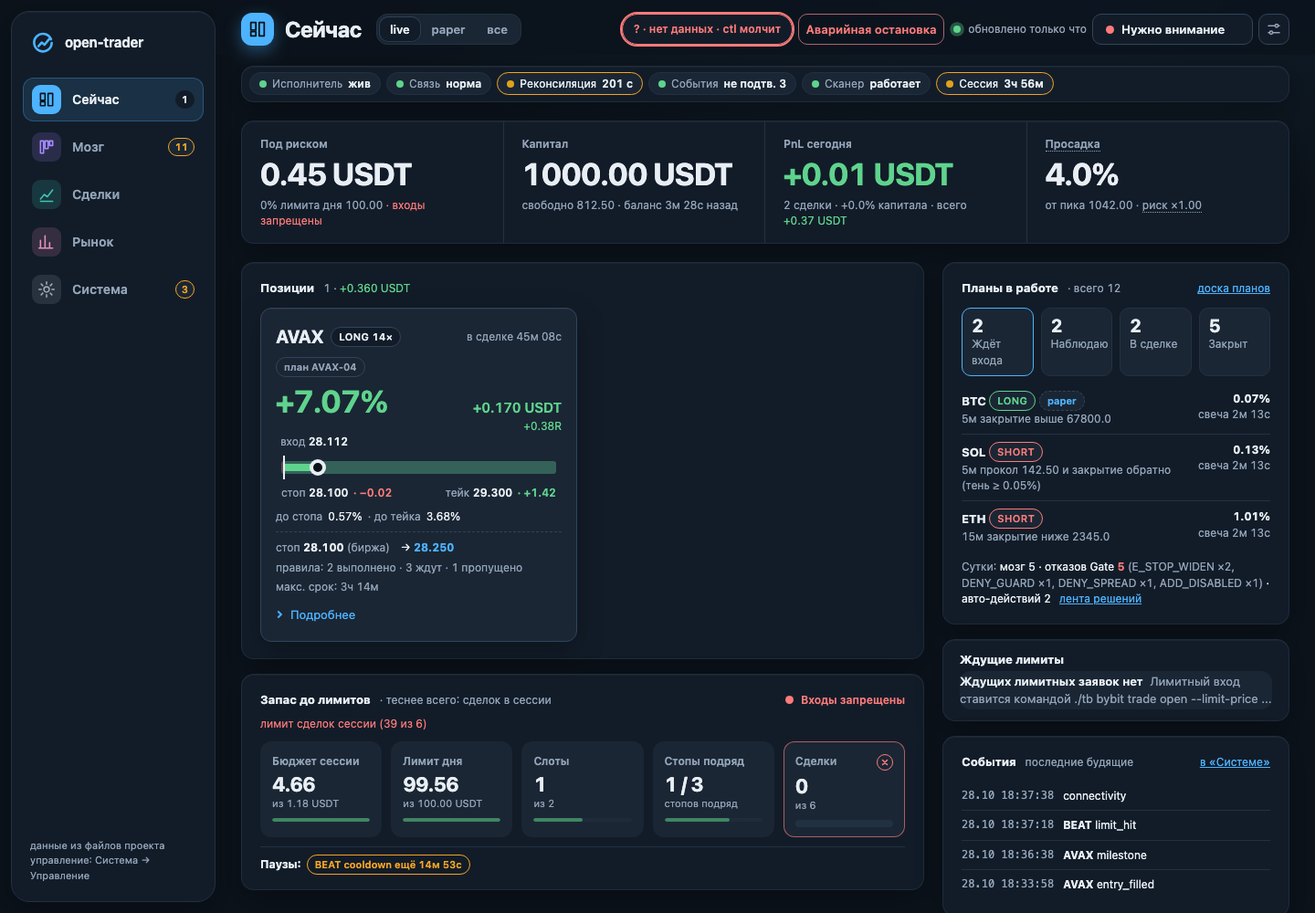
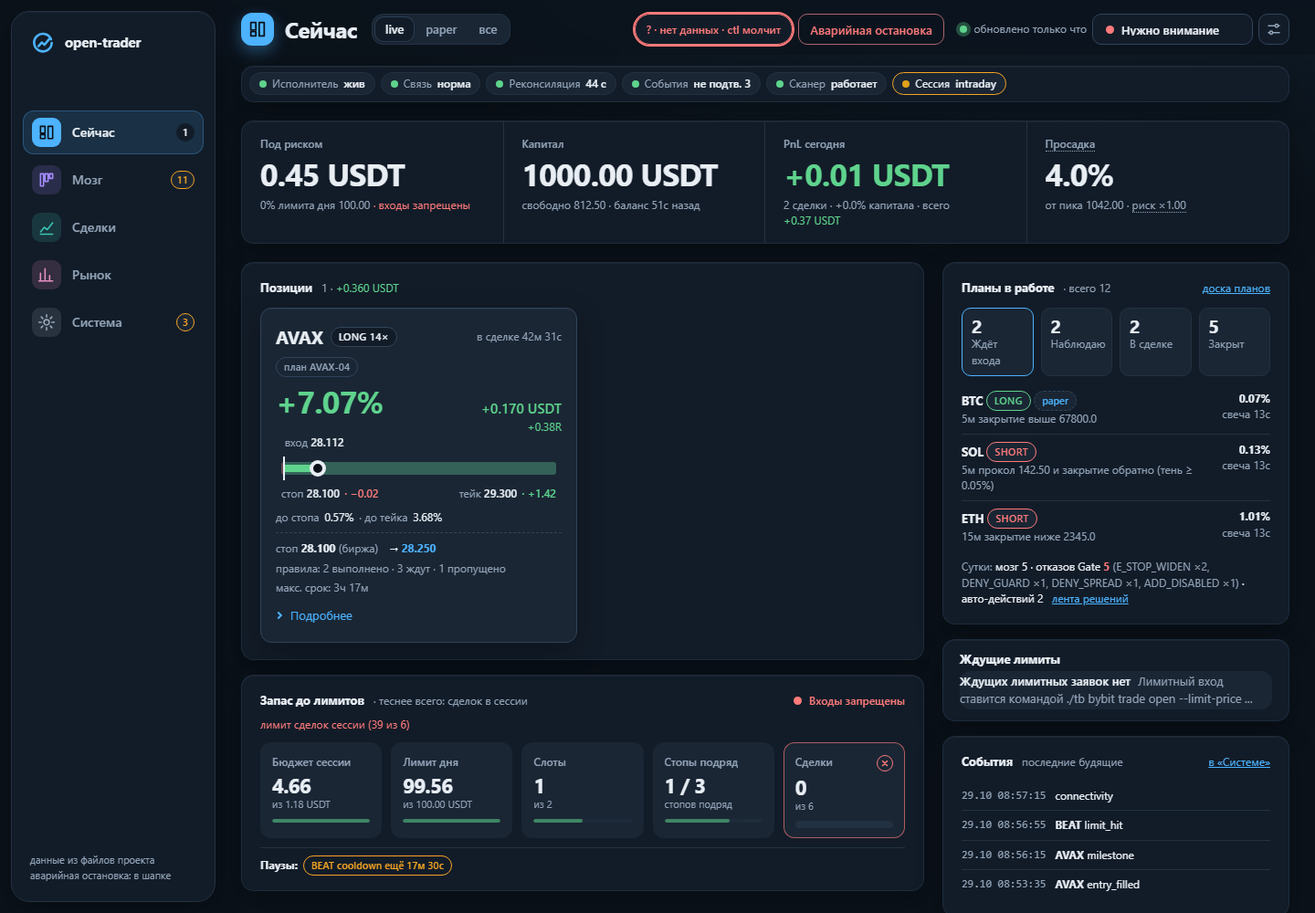
Refresh README and screenshots
- Re-shoot all dashboard screenshots from the synthetic fixture (neutral
  numbers); merge the two settings shots into one, since Settings is now
  a single page.
- README (en/ru): 22 gateway tools (was 19), entry_scout in the brain,
  day start without minutes/session type, risk levels 4-5 and cost
  awareness, honest paper/live and Windows status, package list.
- docs: fix tool count in ARCHITECTURE/INDEX, image links in PROVIDERS.

diff --git a/README.ru.md b/README.ru.md
@@ -7,7 +7,7 @@
 > - **Прибыльность НЕ доказана.** Исследования в репозитории (`docs/RESEARCH.md`) проверили правиловые стратегии и не нашли преимущества (edge), переживающего издержки и проверки на устойчивость.
 > - **Реальные деньги под риском.** Бессрочные фьючерсы с плечом могут быстро обнулить депозит. Начинайте с профиля `paper` и не торгуйте деньгами, потерю которых не можете себе позволить.
 > - **ПО предоставляется «как есть», без гарантий** (см. `LICENSE`). Вы сами отвечаете за ключи, настройки и сделки.
-> - Windows написан, но **не проверен** на реальной машине. Часть источников данных (новости, макро) тоже **не проверена**.
+> - Windows проверялся на реальной машине ограниченно (владелец запускает его на Windows 11), macOS проверен лучше. Часть источников данных (новости, макро) **не проверена**.
 
 ## Что это
 
@@ -18,9 +18,11 @@
 
 Профиль по умолчанию `paper`: бумажная торговля по реальным публичным ценам Bybit. Live включает только владелец, через явные гейты.
 
+Уровни риска 1-5 задают размер и лимиты в коде. На уровнях 4-5 мозгу велено брать валидные сетапы, а не пропускать их «из осторожности» (жёсткие правила и лимиты остаются). Мозг также видит стоимость своей работы (токены за сутки против результата дня) и журнал бумажных экспериментов, поэтому может повторять гипотезы, выдержавшие проверку на бумаге.
+
 ## Принципы безопасности
 
-- Мозг **не видит ключей и файлов**: ему доступен только каталог из 19 инструментов (`docs/GATEWAY.md`) с правами и лимитами на агента; нет shell, сети, файловой системы и прямых ордеров.
+- Мозг **не видит ключей и файлов**: ему доступен только каталог из 22 инструментов (`docs/GATEWAY.md`) с правами и лимитами на агента; нет shell, сети, файловой системы и прямых ордеров.
 - **Guard и уровни риска вне LLM.** Размер, плечо и маржу считает код от капитала и уровня риска (1-5); агент их не задаёт.
 - **Стоп только ужесточается**, расширить нельзя. Без усреднения убытка и мартингейла.
 - **KILL**: `state/KILL` останавливает торговлю; снять может только человек (`./tb exec resume`).
@@ -37,13 +39,14 @@
  Bybit публичный WS --> feed/scan --> шина событий -----+--> досье (briefing)
                                                         |
                          +------------------------------v--------------+
-                         |  МОЗГ (роли LLM: morning_analyst,           |
-                         |  position_manager, reviewer, day_auditor)   |
+                         |  МОЗГ (роли LLM: entry_scout,               |
+                         |  morning_analyst, position_manager,         |
+                         |  reviewer, day_auditor)                     |
                          |  агент-чат (Claude через MCP) / API-демон   |
                          +------------------------------+--------------+
                                  только вызовы инструментов (ни ключей, ни файлов)
                          +------------------------------v--------------+
-                         |  ШЛЮЗ: 19 инструментов, права, лимиты, аудит |
+                         |  ШЛЮЗ: 22 инструмента, права, лимиты, аудит |
                          +------------------------------+--------------+
                                       планы (inbox/outbox)
                          +------------------------------v--------------+
@@ -59,17 +62,17 @@
 
 ## Статус и честные ограничения
 
-- Экспериментально. Работало только на бумаге; живой LLM-мозг в деле не проверен (промпты и форматы проверены на фейковом LLM, живую оценку делает владелец).
+- Экспериментально. Автономные входы LLM работали только на бумаге (поиск входов только для paper по замыслу); владелец сделал несколько небольших live-сделок вручную. Живой LLM-мозг в деле не проверен (промпты и форматы проверены на фейковом LLM, живую оценку делает владелец).
 - **Доказанного edge нет.** Наши исследования (`docs/RESEARCH.md`): минутные тренд-правила, часовой пробой, пары, дневной моментум, funding-контрариан, девять свечных гипотез, объём после импульса. Ни одно не прошло. Ценность системы в дисциплине риска и измерении гипотез, а не в обещании дохода.
 - Источники новостей не подтверждены до `./tb intel verify`; читатель новостей на живом тексте не проверялся.
 - Медленные данные (деривативы, макро) необязательны и по умолчанию не запускаются.
-- Windows (`tb.cmd`, `tb.ps1`, `docs/WINDOWS.md`) не проверен; проверенная платформа: macOS.
+- Windows (`tb.cmd`, `tb.ps1`, `docs/WINDOWS.md`) используется владельцем на Windows 11, но проверен меньше macOS; слабое место: остановка и перезапуск процессов. Лучше всего проверена платформа macOS.
 - Документация в основном на русском; README, SECURITY, CONTRIBUTING есть на английском.
 
 ## Требования
 
-- **Python 3.9 или новее** (`python3 --version`). Внешних зависимостей нет: только стандартная библиотека, `pip install` не нужен.
-- macOS или Linux (проверено на macOS). Windows: есть `tb.cmd` / `tb.ps1`, но они **не проверены** (`docs/WINDOWS.md`).
+- **Python 3.9 или новее** (`python3 --version`; разработка на 3.14, 3.9 заново не проверялся). Внешних зависимостей нет: только стандартная библиотека, `pip install` не нужен.
+- macOS или Linux (проверено на macOS). Windows: `tb.cmd` / `tb.ps1` работают у владельца на Windows 11, но проверены меньше (`docs/WINDOWS.md`).
 - Доступ в интернет: профиль paper торгует на бумаге по **реальным публичным ценам Bybit** (публичные WebSocket и REST). Аккаунт и ключ Bybit для paper не нужны.
 - Ключ LLM-провайдера **необязателен**: платформа, дашборд и paper работают без живого мозга. Для мозга нужен провайдер (ниже).
 
@@ -87,7 +90,7 @@ git clone <этот репозиторий> && cd <папка репозитор
 `./tb start` сам создаёт ключ подписи и токен дашборда при первом запуске (токен печатается один раз, сохраните) и печатает ссылку на дашборд и следующие шаги. Дальше:
 
 1. Откройте **http://127.0.0.1:8765/** (только локально; для paper вход без токена, токен спросят один раз для опасных действий и смены настроек).
-2. **Система -> Управление -> Старт**: режим `paper`, тип сессии (`intraday`), минуты, «Запустить». Старт идёт шагами S1-S9 (вкладка **День**).
+2. Нажмите **«Начать торговлю»** в шапке (или **Система -> Управление -> Запустить день**), выберите режим (`paper`) и подтвердите. У торгового дня нет срока: он идёт, пока вы его не остановите. Старт идёт шагами S1-S9 (вкладка **День**).
 3. Мозг **выключен**, пока вы не подключите LLM-провайдера (следующий раздел). До этого `./tb start` печатает одну строку `мозг выключен: <причина> (как включить: ...)`, всё остальное работает: дашборд, сканер, планы, бумажный исполнитель, журнал.
 
 Остановка: `./tb stop` (перезапуск: `./tb restart`). Аварийно: `./tb exec halt --flatten`. Если вы нажали Ctrl+Z в терминале, где запущен супервизор, `./tb start|stop|restart` сами его разморозят. Другой порт: `{"svc": {"dash": {"port": 8780}}}` в `config/local/platform.json`. Полное руководство: `docs/QUICKSTART.md`; эксплуатация: `docs/RUNBOOK.md`. Самопроверка во временном корне на фейковом LLM (берёт публичные данные Bybit, ваши файлы не трогает): `./tb smoke`.
@@ -103,7 +106,7 @@ git clone <этот репозиторий> && cd <папка репозитор
 ./tb llm check --provider deepseek               # проверка конфига без сети; с --live один крошечный платный запрос
 ./tb restart                                     # или ./tb start; ./tb brain status покажет назначения
 ```
-Другой вендор (например Gemini): `./tb llm provider add gemini --preset gemini`, `./tb llm key set gemini`, `./tb llm provider enable gemini`, `./tb brain profile set gem-flash --provider gemini --model flash`, `./tb brain use all gem-flash`. Любой OpenAI-совместимый адрес и локальные модели (Ollama, LM Studio): `docs/PROVIDERS.ru.md`. **Все шаблоны не проверены живым ключом; нативные адаптеры только у Anthropic и DeepSeek.** Держитесь paper и малых бюджетов (`config/brain.json` -> `budget`). Те же экраны есть в дашборде (**Система -> Настройки -> Провайдеры / Роли**).
+Другой вендор (например Gemini): `./tb llm provider add gemini --preset gemini`, `./tb llm key set gemini`, `./tb llm provider enable gemini`, `./tb brain profile set gem-flash --provider gemini --model flash`, `./tb brain use all gem-flash`. Любой OpenAI-совместимый адрес и локальные модели (Ollama, LM Studio): `docs/PROVIDERS.ru.md`. **Все шаблоны не проверены живым ключом; нативные адаптеры только у Anthropic и DeepSeek.** Держитесь paper и малых бюджетов (`config/brain.json` -> `budget`). Те же экраны есть в дашборде (**Система -> Настройки**).
 
 ## Что вы увидите
 
@@ -115,8 +118,7 @@ git clone <этот репозиторий> && cd <папка репозитор
 | ![Решения мозга](docs/images/brain-decisions.png) | **Мозг -> Решения**: карточка состояния мозга и лента всех решений (кто, что, почему, результат) |
 | ![Планы](docs/images/plans.png) | **Мозг -> Планы**: доска планов (ждёт входа / наблюдаю / в сделке / закрыт), условия входа, ближайший триггер |
 | ![Сделки](docs/images/trades.png) | **Сделки**: статистика, накопленный PnL, причины выхода, история |
-| ![Провайдеры](docs/images/settings-providers.png) | **Система -> Настройки -> Провайдеры**: добавить из шаблона, ввести ключ (write-only), включить, проверить |
-| ![Роли](docs/images/settings-roles.png) | **Система -> Настройки -> Роли**: какой профиль обслуживает роль, запасные, бюджеты |
+| ![Настройки](docs/images/settings.png) | **Система -> Настройки**: какая модель обслуживает роль (с запасными), подключения ИИ: добавить провайдера из шаблона, ввести ключ (write-only), включить, проверить |
 
 ## Если что-то не так
 
@@ -128,13 +130,13 @@ git clone <этот репозиторий> && cd <папка репозитор
 | `мозг выключен: ...` / мозг ничего не делает | нет подписчика `api`, ключа провайдера, провайдер выключен или нет профиля: строка говорит, что именно; `docs/PROVIDERS.ru.md`, шаг 6 |
 | `E_ELEVATE` или запрос токена в дашборде | действие «опасное» (live, смена настроек, ключи): введите токен дашборда один раз; потерян: `./tb control token new` |
 | Команды падают с сетевыми/DNS-ошибками, WebSocket не подключается | песочница, VPN или фаервол режут исходящие соединения; запускайте в обычном терминале. Прокси у сервисов биржи отключены намеренно (`docs/WINDOWS.md`, `docs/RUNBOOK.md`) |
-| Windows | на настоящей машине не проверялся; `docs/WINDOWS.md`, сообщите, что сломалось |
+| Windows | проверен меньше macOS; `docs/WINDOWS.md`, сообщите, что сломалось (`./tb stop` там ждёт до 90 с) |
 | Что-то ещё | `./tb status`, `./tb logs [exec|scan|feed|dispatch|ctl|dash|brain]`, `./tb day status`, `./tb setup --check`; `./tb smoke` проверяет всю цепочку во временном корне |
 
 ## Структура репозитория
 
 ```
-src/tb/        пакет (только stdlib): core, executor, gateway, mcp, brain, llm, control, lifecycle, intel, memory, marketdata, venues, platform, dash, research, audit
+src/tb/        пакет (только stdlib): core, executor, gateway, mcp, brain, llm, control, lifecycle, intel, memory, logic, marketdata, venues, platform, dash, research, audit, legacy_engine
 config/        настройки (без секретов); примеры с нейтральными значениями: examples/config/
 docs/          документация (оглавление: docs/INDEX.md), заметки проектирования: docs/spec_v2/
 tests/         юнит- и сценарные тесты (фикстуры синтетические)

diff --git a/README.md b/README.md
@@ -7,7 +7,7 @@
 > - **Profitability is NOT proven.** The research in this repository (`docs/RESEARCH.md`) tested rule-based strategies and found no edge that survives costs and robustness checks.
 > - **Real money is at risk.** Perpetual futures with leverage can lose your whole deposit quickly. Use the `paper` profile first and never trade money you cannot afford to lose.
 > - **Provided "as is", without warranty** (see `LICENSE`). You are solely responsible for your keys, your configuration and your trades.
-> - Windows support is written but **not verified** on a real Windows machine. Some data sources (news, macro) are **not verified** either.
+> - Windows support has had limited real-machine testing (the maintainer runs it on Windows 11); macOS is better covered. Some data sources (news, macro) are **not verified**.
 
 ## What it is
 
@@ -18,9 +18,11 @@ An autonomous trading platform for USDT-margined perpetual futures on Bybit, wit
 
 The default profile is `paper`: it trades on paper against real public Bybit prices. Live trading is an explicit, gated owner decision.
 
+Risk levels 1-5 set size and limits in code. At levels 4-5 the brain is told to take valid setups instead of skipping out of caution (all hard rules and limits stay). The brain also sees what its own work costs (tokens per day against the day's result) and a ledger of paper experiments, so it can repeat hypotheses that held up on paper.
+
 ## Safety principles
 
-- The brain **never sees keys or files**. It gets a fixed catalog of 19 tools (`docs/GATEWAY.md`) with per-agent rights and limits; there are no shell, network, filesystem or direct-order tools.
+- The brain **never sees keys or files**. It gets a fixed catalog of 22 tools (`docs/GATEWAY.md`) with per-agent rights and limits; there are no shell, network, filesystem or direct-order tools.
 - **Guard and risk levels live outside the LLM.** Size, leverage and margin are computed by code from capital and a risk level (1-5); an agent never sets them.
 - **A stop can only be tightened**, never widened. No averaging down, no martingale.
 - **KILL switch**: `state/KILL` halts trading; only a human can clear it (`./tb exec resume`).
@@ -37,13 +39,14 @@ The default profile is `paper`: it trades on paper against real public Bybit pri
  Bybit public WS --> feed/scan --> events bus -----+--> briefing (dossier)
                                                    |
                          +-------------------------v-------------------+
-                         |  BRAIN (LLM roles: morning_analyst,         |
-                         |  position_manager, reviewer, day_auditor)   |
+                         |  BRAIN (LLM roles: entry_scout,             |
+                         |  morning_analyst, position_manager,         |
+                         |  reviewer, day_auditor)                     |
                          |  chat agent (Claude via MCP) / API daemon   |
                          +-------------------------+-------------------+
                                   tool calls only  |  (no keys, no files)
                          +-------------------------v-------------------+
-                         |  GATEWAY: 19 tools, rights, limits, audit    |
+                         |  GATEWAY: 22 tools, rights, limits, audit    |
                          +-------------------------+-------------------+
                                        plans (inbox/outbox)
                          +-------------------------v-------------------+
@@ -60,17 +63,17 @@ Details: `docs/ARCHITECTURE.md`, `docs/DESIGN_V2.md`, `docs/SPEC_V2.md`.
 
 ## Status and honest limitations
 
-- Experimental. It has been run on paper only; a live LLM brain has not been validated in production (prompts and response formats were tested on a fake LLM; the live evaluation is the owner's job).
+- Experimental. Autonomous LLM entries have only run on paper (the entry scout is paper-only by design); the owner has made a few small live trades by hand. A live LLM brain has not been validated in production (prompts and response formats were tested on a fake LLM; the live evaluation is the owner's job).
 - **No proven edge.** Our own research (`docs/RESEARCH.md`) tested minute trend rules, hourly breakout, pairs, daily momentum, funding contrarian, nine candle/level hypotheses and volume-after-impulse. None passed. The value of the system is risk discipline and measurement of hypotheses, not a promise of income.
 - News sources are unverified until you run `./tb intel verify`; the news reader has not been tested on live text.
 - Slow market data (derivatives, macro) is optional and not started by default.
-- Windows (`tb.cmd`, `tb.ps1`, `docs/WINDOWS.md`) is not verified. macOS is the tested platform.
+- Windows (`tb.cmd`, `tb.ps1`, `docs/WINDOWS.md`) is used by the maintainer on Windows 11 but is less tested than macOS; process stop/restart is the weak spot. macOS is the best-tested platform.
 - Documentation is mostly in Russian; the README, SECURITY, CONTRIBUTING are in English.
 
 ## Requirements
 
-- **Python 3.9 or newer** (`python3 --version`). No external dependencies: standard library only, no `pip install`.
-- macOS or Linux (tested on macOS). Windows: `tb.cmd` / `tb.ps1` exist but are **not verified** (`docs/WINDOWS.md`).
+- **Python 3.9 or newer** (`python3 --version`; developed on 3.14, 3.9 is not re-tested). No external dependencies: standard library only, no `pip install`.
+- macOS or Linux (tested on macOS). Windows: `tb.cmd` / `tb.ps1` work for the maintainer on Windows 11 but are less tested (`docs/WINDOWS.md`).
 - Internet access: the paper profile trades on paper against **real public Bybit prices** (WebSocket and REST, public endpoints). No Bybit account or key is needed for paper.
 - An LLM provider key is **optional**: the platform, dashboard and paper work without a live brain. The brain needs a provider (see below).
 
@@ -88,7 +91,7 @@ git clone <this repository> && cd <repository folder>   # or unzip it; then: chm
 `./tb start` creates the signing key and the dashboard token itself on first run (the token is printed once; keep it) and prints the dashboard link and next steps. Then:
 
 1. Open **http://127.0.0.1:8765/** (local only; paper needs no login, the token is asked once, only for dangerous actions and for changing settings).
-2. **System -> Control -> Start**: mode `paper`, session type (`intraday`), minutes, run. The start goes through steps S1-S9 (tab **Day**).
+2. Click **Start trading** in the header (or **System -> Control -> Start day**), pick the mode (`paper`) and confirm. A trading day has no time limit: it runs until you stop it. The start goes through steps S1-S9 (tab **Day**).
 3. The brain is **off** until you connect an LLM provider (next section). Until then `./tb start` prints one line `мозг выключен: <reason> (как включить: ...)` and everything else works: dashboard, scanner, plans, paper executor, journal.
 
 Stop: `./tb stop` (restart: `./tb restart`). Emergency: `./tb exec halt --flatten`. If you pressed Ctrl+Z in the terminal that started the supervisor, `./tb start|stop|restart` resume it by themselves. Another port: put `{"svc": {"dash": {"port": 8780}}}` into `config/local/platform.json`. Full guide: `docs/QUICKSTART.md` (Russian); operations: `docs/RUNBOOK.md`. Self-check on a temporary root with a fake LLM (uses public Bybit data, touches nothing of yours): `./tb smoke`.
@@ -104,7 +107,7 @@ Details, table of templates and troubleshooting: **[docs/PROVIDERS.md](docs/PROV
 ./tb llm check --provider deepseek               # offline config check; add --live for one tiny paid request
 ./tb restart                                     # or ./tb start; ./tb brain status shows the assignments
 ```
-Another vendor (here Gemini): `./tb llm provider add gemini --preset gemini`, `./tb llm key set gemini`, `./tb llm provider enable gemini`, `./tb brain profile set gem-flash --provider gemini --model flash`, `./tb brain use all gem-flash`. Any OpenAI-compatible URL and local models (Ollama, LM Studio) are covered in `docs/PROVIDERS.md`. **All templates are unverified with a live key; only Anthropic and DeepSeek have native adapters.** Keep to paper and small budgets (`config/brain.json` -> `budget`). The same screens exist in the dashboard (**System -> Settings -> Providers / Roles**).
+Another vendor (here Gemini): `./tb llm provider add gemini --preset gemini`, `./tb llm key set gemini`, `./tb llm provider enable gemini`, `./tb brain profile set gem-flash --provider gemini --model flash`, `./tb brain use all gem-flash`. Any OpenAI-compatible URL and local models (Ollama, LM Studio) are covered in `docs/PROVIDERS.md`. **All templates are unverified with a live key; only Anthropic and DeepSeek have native adapters.** Keep to paper and small budgets (`config/brain.json` -> `budget`). The same screens exist in the dashboard (**System -> Settings**).
 
 ## What you will see
 
@@ -116,8 +119,7 @@ All screenshots below are synthetic fixture data (`tests/fixtures_v2/gen.py`), n
 | ![Brain decisions](docs/images/brain-decisions.png) | **Brain -> Decisions**: brain status card and the log of every decision (who, what, why, result) |
 | ![Plans](docs/images/plans.png) | **Brain -> Plans**: board of plans (waiting / watching / in trade / closed), entry conditions, nearest trigger |
 | ![Trades](docs/images/trades.png) | **Trades**: statistics, cumulative PnL, exit reasons, history |
-| ![Providers](docs/images/settings-providers.png) | **System -> Settings -> Providers**: add a provider from a template, enter a key (write-only), enable, check |
-| ![Roles](docs/images/settings-roles.png) | **System -> Settings -> Roles**: which profile serves which role, fallbacks, budgets |
+| ![Settings](docs/images/settings.png) | **System -> Settings**: which model serves which role (with fallbacks), AI connections: add a provider from a template, enter a key (write-only), enable, check |
 
 ## Troubleshooting
 
@@ -129,13 +131,13 @@ All screenshots below are synthetic fixture data (`tests/fixtures_v2/gen.py`), n
 | `мозг выключен: ...` / brain does nothing | no subscriber `api`, no provider key, provider disabled or no profile: the line says which; follow `docs/PROVIDERS.md` section 6 |
 | `E_ELEVATE` or a token prompt in the dashboard | the action is "dangerous" (live, changing settings, keys): enter the dashboard token once; lost: `./tb control token new` |
 | Commands fail with network/DNS errors, WebSocket never connects | a sandbox, VPN or firewall blocks outbound access; run in a plain terminal. Service proxies are disabled on purpose for exchange traffic (`docs/WINDOWS.md`, `docs/RUNBOOK.md`) |
-| Windows | not verified on a real machine; follow `docs/WINDOWS.md` and please report what breaks |
+| Windows | less tested than macOS; follow `docs/WINDOWS.md` and please report what breaks (`./tb stop` waits up to 90 s there) |
 | Something else | `./tb status`, `./tb logs [exec|scan|feed|dispatch|ctl|dash|brain]`, `./tb day status`, `./tb setup --check`; `./tb smoke` checks the whole chain on a temporary root |
 
 ## Repository layout
 
 ```
-src/tb/        the package (stdlib only): core, executor, gateway, mcp, brain, llm, control, lifecycle, intel, memory, marketdata, venues, platform, dash, research, audit
+src/tb/        the package (stdlib only): core, executor, gateway, mcp, brain, llm, control, lifecycle, intel, memory, logic, marketdata, venues, platform, dash, research, audit, legacy_engine
 config/        settings (no secrets); examples with neutral values: examples/config/
 docs/          documentation (index: docs/INDEX.md), design notes: docs/spec_v2/
 tests/         unit and scenario tests (fixtures are synthetic)

diff --git a/docs/images/README.md b/docs/images/README.md
@@ -8,8 +8,7 @@ All images are taken from the **synthetic fixture** (`tests/fixtures_v2/gen.py`)
 | `brain-decisions.png` | `#decisions` | brain status card and decision log |
 | `plans.png` | `#plans` | board of plans |
 | `trades.png` | `#trades` | statistics, PnL curve, history |
-| `settings-providers.png` | `#settings` (tab Providers) | LLM providers, keys, "add from template" |
-| `settings-roles.png` | `#settings` -> Roles | role -> profile chains |
+| `settings.png` | `#settings` | who answers what (role -> model, fallbacks), AI connections, keys, "add from template" |
 
 ## Regenerate (after a redesign)
 
@@ -31,5 +30,5 @@ Shoot with any browser at 1440x1000, for example headless Chrome:
 "/Applications/Google Chrome.app/Contents/MacOS/Google Chrome" --headless=new --hide-scrollbars \
   --window-size=1440,1000 --virtual-time-budget=8000 --screenshot=docs/images/overview.png "http://127.0.0.1:8774/#overview"
 ```
-The Roles screen is a sub-tab (not addressable by URL): open `#settings`, click "Роли", capture (DevTools, or a CDP script that clicks the button and calls `Page.captureScreenshot`).
+Settings is one page (`#settings`, roles on top, AI connections below): no sub-tab to click. A short Node 22 script that drives Chrome through the DevTools protocol (`--remote-debugging-port`, `Page.navigate`, `Page.captureScreenshot`, no extra packages) is enough to shoot every page.
 Finally: stop the dashboard and the generator, look at every PNG (no home-directory paths, no e-mail, no real amounts, no keys; the red "ctl молчит" badge is an artifact of the fixture, which runs no control service), then `./tb audit-public`.

diff --git a/docs/PROVIDERS.ru.md b/docs/PROVIDERS.ru.md
@@ -41,7 +41,7 @@ CLI:
 ```
 Дашборд: **Система -> Настройки -> Провайдеры -> «Добавить провайдера из шаблона» -> «Добавить выключенным»** (нужен токен дашборда один раз: он печатается при первом `./tb start`, потерян: `./tb control token new`).
 
-![Настройки, провайдеры](images/settings-providers.png)
+![Настройки: подключения ИИ](images/settings.png)
 
 ## 3. Ключ, имя модели, включение (порядок важен: без ключа провайдера не включить)
 
@@ -82,7 +82,7 @@ CLI:
 
 Имена ролей: `position_manager` значит роль live-команды, `A.position_manager` называет команду явно, `shared.news_reader` общую роль. Смена цепочек и профилей требует ключа подписи (создаётся сам при `./tb start`, или `./tb control init-key`). Тот же экран есть в дашборде (**Настройки -> Роли**, смена по токену):
 
-![Настройки, роли](images/settings-roles.png)
+![Настройки: роли](images/settings.png)
 
 Смешивать можно и нужно: дешёвая модель для `news_reader`/`reviewer`/`entry_scout`, сильнее для `morning_analyst`/`position_manager`, второй провайдер как `--fallback`, чтобы 429/5xx одного вендора не ослепили мозг.
 

diff --git a/docs/ARCHITECTURE.md b/docs/ARCHITECTURE.md
@@ -90,7 +90,7 @@ index.html, app.css, app.js), опрос `/api/state` раз в 3 с. Данны
 - Графики: SVG чистым JS; текст из данных вставляется через `textContent`. Тесты: `tests/test_dash.py`, `tests/test_launcher.py`.
 
 ## Шлюз инструментов и MCP (WP11-A, `docs/GATEWAY.md`)
-`src/tb/gateway/` (каталог из 19 инструментов поверх brain/core, реестр агентов `config/agents.json` с хэшами токенов, аудит `state/gateway_audit.jsonl`, `gateway.call(agent, tool, args)`) и
+`src/tb/gateway/` (каталог из 22 инструментов поверх brain/core, реестр агентов `config/agents.json` с хэшами токенов, аудит `state/gateway_audit.jsonl`, `gateway.call(agent, tool, args)`) и
 `src/tb/mcp/server.py` (`./tb mcp serve --agent ID`, stdio JSON-RPC). Агент видит только каталог: ни ключей, ни файлов, ни shell, ни ордеров; команды планов идут в `_inbox` с `actor=brain:<id>`.
 Слои: gateway и mcp не импортируют venues, executor, subprocess, socket, http (`test_layering.py`).
 

diff --git a/docs/PROVIDERS.md b/docs/PROVIDERS.md
@@ -41,7 +41,7 @@ CLI:
 ```
 Dashboard: **System -> Settings -> Providers -> "Add provider from template" -> "Add disabled"** (needs the dashboard token once: it is printed on first `./tb start`, or `./tb control token new`).
 
-![Settings, Providers](images/settings-providers.png)
+![Settings: AI connections](images/settings.png)
 
 ## 3. Key, model name, enable (order matters: a provider without a key cannot be enabled)
 
@@ -82,7 +82,7 @@ A **profile** = provider + model + params (temperature, max tokens, thinking). A
 
 Role names: `position_manager` means the live team's role, `A.position_manager` names the team explicitly, `shared.news_reader` a shared role. Chain and profile changes need a signing key (created automatically by `./tb start`, or `./tb control init-key`). The same screen exists in the dashboard (**Settings -> Roles**, change needs the token):
 
-![Settings, Roles](images/settings-roles.png)
+![Settings: roles](images/settings.png)
 
 Mixing is allowed and sensible: a cheap model for `news_reader`/`reviewer`/`entry_scout`, a stronger one for `morning_analyst`/`position_manager`, a second provider as `--fallback` so a 429/5xx from one vendor does not blind the brain.
 

diff --git a/docs/INDEX.md b/docs/INDEX.md
@@ -25,7 +25,7 @@ Most documents are in Russian. English entry points: `README.md`, `SECURITY.md`,
 ## Safety and control
 | file | what |
 |---|---|
-| `GATEWAY.md` | tool gateway: 19 tools, rights, limits, audit, MCP |
+| `GATEWAY.md` | tool gateway: 22 tools, rights, limits, audit, MCP |
 | `CONTROL.md` | control plane: key, tokens, live gates, signed commands |
 | `EXCHANGES.md` | exchange registry, one executor per exchange, how to add an exchange |
 | `spec_v2/SETTINGS_API.md` | settings API contract: LLM providers, profiles, roles, exchanges, usage |
